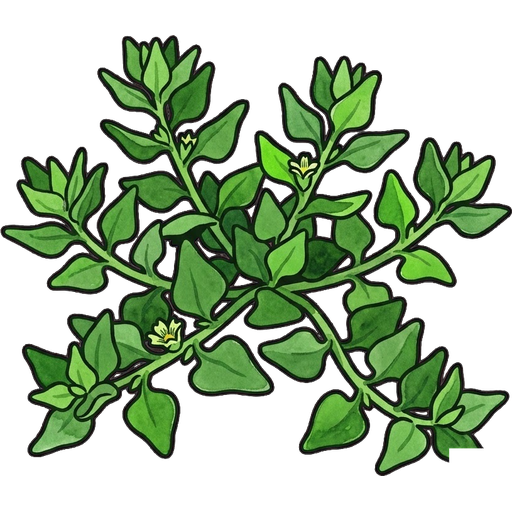
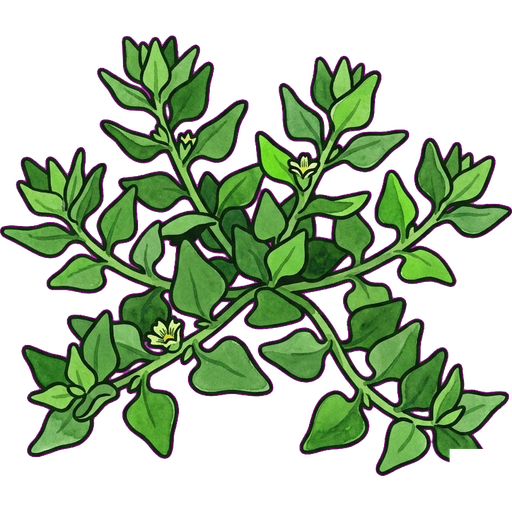
Sticker: Pack 2 Root Veg (9 stickers) + pipeline v10 fix + leafy veg reprocessed

diff --git a/app/src/data/packs/pack-vegetables-root.js b/app/src/data/packs/pack-vegetables-root.js
@@ -8,4 +8,86 @@ export const entries = [
 
   // 🥕 Root Vegetables ─────────────────────────────────────────────────────────
 
+  {
+    key: 'vegetable-root_celeriac',
+    label: 'Celeriac',
+    size: 'M',
+    latinName: 'Apium graveolens var. rapaceum',
+    searchTerms: ['celeriac', 'celery root', 'turnip-rooted celery'],
+    traits: ['biennial', 'root', 'celery-flavour'],
+    src: '/stickers/vegetable-root_celeriac_M_CA-US-FR-GB-AU.png',
+  },
+  {
+    key: 'vegetable-root_jerusalem-artichoke',
+    label: 'Jerusalem Artichoke',
+    size: 'XL',
+    latinName: 'Helianthus tuberosus',
+    searchTerms: ['jerusalem artichoke', 'sunchoke', 'topinambur'],
+    traits: ['perennial', 'root', 'edible-tuber', 'tall'],
+    src: '/stickers/vegetable-root_jerusalem-artichoke_XL_CA-US-FR-GB-AU.png',
+  },
+  {
+    key: 'vegetable-root_salsify',
+    label: 'Salsify',
+    size: 'M',
+    latinName: 'Tragopogon porrifolius',
+    searchTerms: ['salsify', 'oyster plant', 'vegetable oyster'],
+    traits: ['biennial', 'root', 'heritage', 'oyster-flavour'],
+    src: '/stickers/vegetable-root_salsify_M_CA-US-FR-GB-AU.png',
+  },
+  {
+    key: 'vegetable-root_scorzonera',
+    label: 'Scorzonera',
+    size: 'M',
+    latinName: 'Scorzonera hispanica',
+    searchTerms: ['scorzonera', 'black salsify'],
+    traits: ['perennial', 'root', 'heritage'],
+    src: '/stickers/vegetable-root_scorzonera_M_CA-US-FR-GB-AU.png',
+  },
+  {
+    key: 'vegetable-root_hamburg-parsley',
+    label: 'Hamburg Parsley',
+    size: 'M',
+    latinName: 'Petroselinum crispum var. tuberosum',
+    searchTerms: ['hamburg parsley', 'turnip-rooted parsley'],
+    traits: ['biennial', 'root', 'parsley'],
+    src: '/stickers/vegetable-root_hamburg-parsley_M_CA-US-FR-GB-AU.png',
+  },
+  {
+    key: 'vegetable-root_sweet-potato',
+    label: 'Sweet Potato',
+    size: 'M',
+    latinName: 'Ipomoea batatas',
+    searchTerms: ['sweet potato', 'ipomoea', 'kumara'],
+    traits: ['annual', 'root', 'tropical', 'spreading'],
+    src: '/stickers/vegetable-root_sweet-potato_M_CA-US-FR-GB-AU.png',
+  },
+  {
+    key: 'vegetable-root_oca',
+    label: 'Oca',
+    size: 'S',
+    latinName: 'Oxalis tuberosa',
+    searchTerms: ['oca', 'new zealand yam', 'oxalis tuberosa'],
+    traits: ['perennial', 'root', 'heritage', 'andean'],
+    src: '/stickers/vegetable-root_oca_S_CA-US-FR-GB-AU.png',
+  },
+  {
+    key: 'vegetable-root_skirret',
+    label: 'Skirret',
+    size: 'M',
+    latinName: 'Sium sisarum',
+    searchTerms: ['skirret', 'sium sisarum'],
+    traits: ['perennial', 'root', 'heritage'],
+    src: '/stickers/vegetable-root_skirret_M_CA-US-FR-GB-AU.png',
+  },
+  {
+    key: 'vegetable-root_yacon',
+    label: 'Yacon',
+    size: 'XL',
+    latinName: 'Smallanthus sonchifolius',
+    searchTerms: ['yacon', 'smallanthus', 'ground apple'],
+    traits: ['perennial', 'root', 'edible-tuber', 'andean'],
+    src: '/stickers/vegetable-root_yacon_XL_CA-US-FR-GB-AU.png',
+  },
+
 ];

diff --git a/tools/sticker-generate-one.py b/tools/sticker-generate-one.py
@@ -162,12 +162,12 @@ PLANT_LOOKUP = {
     "good king henry":       ("vegetable-leafy_good-king-henry",  "M",  256, "Leafy Vegetable",  "plant",   "mid green #4A8A3A, deep green #2A5A1A, pale mealy surface #C8D4B8, dark outline #0A1A0A", "Upright clump of large arrow-shaped leaves with mealy coating, upright flower spikes above."),
     "silverbeet":            ("vegetable-leafy_silverbeet",       "M",  256, "Leafy Vegetable",  "plant",   "deep green #1A6A3A, bright green #3AAA5A, pure white stems #F5F0E8, dark outline #0A1A0A", "Bold upright leaves with broad glossy green blade and thick white midrib and stems."),
     # Vegetables - Root
-    "celeriac":              ("vegetable-root_celeriac",          "M",  256, "Root Vegetable",   "rootveg", "pale cream-tan bulb #D4C890, mid green tops #4A8A3A, celery-green #6AAF5A, dark outline #0A1A0A", "Rough knobbly round bulb peeking from soil line with upright celery-like green stalks above."),
+    "celeriac":              ("vegetable-root_celeriac",          "M",  256, "Root Vegetable",   "rootveg", "pale cream-tan bulb #D4C890, mid green tops #4A8A3A, celery-green #6AAF5A, dark outline #0A1A0A", "Bulb peeking from soil line with upright celery-like green stalks above. Nothing showing beneath the soil line, focusing on what's not in the soil."),
     "jerusalem artichoke":   ("vegetable-root_jerusalem-artichoke", "XL", 512, "Root Vegetable", "rootveg", "bright yellow flowers #FFD700, deep green #2A5A1A, mid green #4A8A3A, pale tan tuber #D4B870, dark outline #0A1A0A", "Tall sunflower-like plant with golden-yellow blooms above and knobbly pale tubers peeking from soil line."),
-    "salsify":               ("vegetable-root_salsify",           "M",  256, "Root Vegetable",   "rootveg", "pale cream root #F0E8C8, mid green strap tops #4A8A3A, purple flower #7B35C8, dark outline #0A1A0A", "Long slender pale root peeking from soil line with upright grass-like strap leaves and purple flower."),
+    "salsify":               ("vegetable-root_salsify",           "M",  256, "Root Vegetable",   "rootveg", "pale cream-white root #F0E8C8, mid green strap tops #4A8A3A, purple flower #7B35C8, dark outline #0A1A0A", "Salsify root vegetable (NOT a dandelion). Long slender pale cream-white taproot peeking from soil line with upright narrow grass-like strap leaves above. No dandelion. No round seed puff. A single small purple composite flower on a separate stalk."),
     "scorzonera":            ("vegetable-root_scorzonera",        "M",  256, "Root Vegetable",   "rootveg", "deep black-brown root #2A1A0A, pale cream flesh hint #F0E8C8, mid green strap tops #4A8A3A, yellow flower #FFD700, dark outline #0A0A0A", "Long dark-skinned black root peeking from soil line with upright strap leaves and yellow dandelion-like flower."),
-    "hamburg parsley":       ("vegetable-root_hamburg-parsley",   "M",  256, "Root Vegetable",   "rootveg", "pale cream root #F0E8C0, mid green #4A8A3A, bright green parsley #5AB83A, dark outline #0A1A0A", "Thick white parsnip-like root peeking from soil with curly bright green parsley-like tops above."),
-    "sweet potato":          ("vegetable-root_sweet-potato",      "M",  256, "Root Vegetable",   "rootveg", "warm orange #E87820, deep orange #C45A10, bright green vines #5AB83A, heart-shaped leaves #4A8A3A, dark outline #0A1A0A", "Round orange sweet potato peeking from soil line with spreading heart-shaped vine leaves above."),
+    "hamburg parsley":       ("vegetable-root_hamburg-parsley",   "M",  256, "Root Vegetable",   "rootveg", "pale cream root #F0E8C0, bright green parsley #5AB83A, dark outline #0A1A0A", "Thick white parsnip-like root top peeking from soil line, ONLY the crown and shoulders visible above the soil, root body hiding below soil. Curly bright green parsley-like tops rising above. Hidden root."),
+    "sweet potato":          ("vegetable-root_sweet-potato",      "M",  256, "Root Vegetable",   "rootveg", "warm orange #E87820, deep orange #C45A10, bright green vines #5AB83A, leaves #4A8A3A, dark outline #0A1A0A", "The tops only of orange sweet potatoes peeking out from soil line with natural chaotic leafy bunch. No tubers visible below the soil."),
     "oca":                   ("vegetable-root_oca",               "S",  160, "Root Vegetable",   "rootveg", "vivid orange-yellow #E8A020, pale yellow #F5D070, bright green clover-like leaves #5AB83A, dark outline #0A1A0A", "Cluster of small bright orange-yellow tubers peeking from soil with small clover-like bright green leaves."),
     "skirret":               ("vegetable-root_skirret",           "M",  256, "Root Vegetable",   "rootveg", "pale cream roots #F0E8C8, mid green tops #4A8A3A, white flowers #F5F5E8, dark outline #0A1A0A", "Cluster of slender pale cream roots peeking from soil with upright ferny green tops and white flower clusters."),
     "yacon":                 ("vegetable-root_yacon",             "XL", 512, "Root Vegetable",   "rootveg", "warm tan tuber #C8A060, deep yellow-orange #D48830, bright green #5AB83A, broad leaves #3A8A3A, dark outline #0A1A0A", "Large daisy-like plant with big broad leaves above and large tan-golden tubers visible at soil line."),

diff --git a/tools/sticker-pipeline.py b/tools/sticker-pipeline.py
@@ -1,8 +1,8 @@
 """
-Chroma-key background remover v9
-- Removes #FF00FF magenta background
-- Full magenta spill suppression (semi-transparent AND opaque outline pixels)
-- Erases Gemini watermark in bottom-right corner
+Chroma-key background remover v10
+- Removes #FF00FF magenta background (same logic as v4 green, ported to magenta)
+- Edge-only spill suppression (semi-transparent border pixels only)
+- Erases Gemini watermark in bottom-right 20% corner
 - Crops to content bounding box
 - Resizes to 512x512
 - Outputs transparent PNG ready for Garden Mapper sticker folder
@@ -12,8 +12,8 @@ import numpy as np
 import os, sys
 
 CHROMA     = np.array([255, 0, 255], dtype=np.float32)  # Magenta
-TOLERANCE  = 40
-SOFT_RANGE = 20
+TOLERANCE  = 80
+SOFT_RANGE = 40
 OUT_SIZE   = 512
 
 def remove_chroma(input_path, output_path):
@@ -34,29 +34,23 @@ def remove_chroma(input_path, output_path):
     soft_alpha = ((dist - TOLERANCE) / SOFT_RANGE * 255).clip(0, 255)
     new_alpha = np.where(hard_transparent, 0,
                 np.where(soft_zone, soft_alpha, 255)).astype(np.uint8)
+
+    # ── Edge-only magenta spill suppression ────────────────────────────────────
+    # Only apply to semi-transparent edge pixels (same as v4 green approach).
+    # Magenta spill = R and B both elevated above G on edge pixels.
+    edge_mask = (new_alpha > 0) & (new_alpha < 255)
+    avg_g_of_rb = g  # G channel is the neutral reference for magenta
+    rb_excess_r = r - g  # how much R is above G
+    rb_excess_b = b - g  # how much B is above G
+    spill = edge_mask & (rb_excess_r > 15) & (rb_excess_b > 15)
+    # Reduce R and B toward G on spill pixels
+    data[:,:,0] = np.where(spill, g, r)
+    data[:,:,2] = np.where(spill, g, b)
+
     data[:,:,3] = new_alpha
 
-    # ── Magenta spill suppression — ALL pixels ──────────────────────────────────
-    # Suppresses both semi-transparent edge pixels AND fully-opaque outline pixels
-    # that are magenta-tinted (Gemini draws outlines with purple/magenta on magenta bg).
-    #
-    # Method: magenta_amount = min(R, B) - G  (amount of R+B above G = magenta contamination)
-    # Subtract that from R and B on any pixel that is not pure background.
-    r2, g2, b2 = data[:,:,0], data[:,:,1], data[:,:,2]
-    magenta_amount = np.maximum(np.minimum(r2, b2) - g2, 0)
-
-    # Apply to all non-background pixels (alpha > 0)
-    visible = new_alpha > 0
-    data[:,:,0] = np.where(visible, np.maximum(r2 - magenta_amount, 0), r2)
-    data[:,:,2] = np.where(visible, np.maximum(b2 - magenta_amount, 0), b2)
-
-    # ── Zero out near-transparent magenta fringe ────────────────────────────────
-    r3, g3, b3, a3 = data[:,:,0], data[:,:,1], data[:,:,2], data[:,:,3]
-    magenta_fringe = (r3 > 160) & (g3 < 80) & (b3 > 160) & (a3 < 40)
-    data[magenta_fringe, 3] = 0
-
-    # ── Erase Gemini watermark (bottom-right ~13% of image) ────────────────────
-    data[int(h * 0.80):, int(w * 0.80):, 3] = 0  # 20% corner covers full Gemini logo
+    # ── Erase Gemini watermark (bottom-right 20% of image) ─────────────────────
+    data[int(h * 0.80):, int(w * 0.80):, 3] = 0
 
     result = Image.fromarray(np.clip(data, 0, 255).astype(np.uint8), 'RGBA')
 

diff --git a/research/PLANT-DATABASE.md b/research/PLANT-DATABASE.md
@@ -49,6 +49,22 @@
 
 ---
 
+## 🥕 Vegetables — Root
+
+| Common Name | Latin Name | Family Group | Regions | Size | Pack | Sticker ID | Traits | Search Terms | Variants | Notes |
+|---|---|---|---|---|---|---|---|---|---|---|
+| Celeriac | Apium graveolens var. rapaceum | Apiaceae | CA US FR GB AU | M | pack-vegetables-root | vegetable-root_celeriac | biennial, root, celery-flavour | celeriac, celery root, turnip-rooted celery | none | |
+| Jerusalem Artichoke | Helianthus tuberosus | Asteraceae | CA US FR GB AU | XL | pack-vegetables-root | vegetable-root_jerusalem-artichoke | perennial, root, edible-tuber, tall | jerusalem artichoke, sunchoke, topinambur | none | |
+| Salsify | Tragopogon porrifolius | Asteraceae | CA US FR GB AU | M | pack-vegetables-root | vegetable-root_salsify | biennial, root, heritage, oyster-flavour | salsify, oyster plant, vegetable oyster | none | |
+| Scorzonera | Scorzonera hispanica | Asteraceae | CA US FR GB AU | M | pack-vegetables-root | vegetable-root_scorzonera | perennial, root, heritage | scorzonera, black salsify | none | FR classic |
+| Hamburg Parsley | Petroselinum crispum var. tuberosum | Apiaceae | CA US FR GB AU | M | pack-vegetables-root | vegetable-root_hamburg-parsley | biennial, root, parsley | hamburg parsley, turnip-rooted parsley | none | |
+| Sweet Potato | Ipomoea batatas | Convolvulaceae | CA US FR GB AU | M | pack-vegetables-root | vegetable-root_sweet-potato | annual, root, tropical, spreading | sweet potato, ipomoea, kumara | planned | orange/purple/white forms |
+| Oca | Oxalis tuberosa | Oxalidaceae | CA US FR GB AU | S | pack-vegetables-root | vegetable-root_oca | perennial, root, heritage, andean | oca, new zealand yam, oxalis tuberosa | planned | yellow/orange/red forms |
+| Skirret | Sium sisarum | Apiaceae | CA US FR GB AU | M | pack-vegetables-root | vegetable-root_skirret | perennial, root, heritage | skirret, sium sisarum | none | sweet heritage root veg |
+| Yacon | Smallanthus sonchifolius | Asteraceae | CA US FR GB AU | XL | pack-vegetables-root | vegetable-root_yacon | perennial, root, edible-tuber, andean | yacon, smallanthus, ground apple | none | |
+
+---
+
 ## 🥬 Vegetables — Leafy
 
 | Common Name | Latin Name | Family Group | Regions | Size | Pack | Sticker ID | Traits | Search Terms | Variants | Notes |

diff --git a/research/PLANT-STAGING.md b/research/PLANT-STAGING.md
@@ -819,22 +819,6 @@ _Then and only then does the row move to PLANT-DATABASE.md with the Sticker ID f
 
 ---
 
-## 🥕 Vegetables — Root
-
-| Common Name | Latin Name | Family Group | Regions | Size | Pack | Sticker ID | Traits | Search Terms | Variants | Notes |
-|---|---|---|---|---|---|---|---|---|---|---|
-| Celeriac | Apium graveolens var. rapaceum | Apiaceae | CA US FR GB AU | M | pack-vegetables-root | | biennial, root, celery-flavour | celeriac, celery root, turnip-rooted celery | none | |
-| Jerusalem Artichoke | Helianthus tuberosus | Asteraceae | CA US FR GB AU | XL | pack-vegetables-root | | perennial, root, edible-tuber, tall | jerusalem artichoke, sunchoke, topinambur | none | |
-| Salsify | Tragopogon porrifolius | Asteraceae | CA US FR GB AU | M | pack-vegetables-root | | biennial, root, heritage, oyster-flavour | salsify, oyster plant, vegetable oyster | none | |
-| Scorzonera | Scorzonera hispanica | Asteraceae | CA US FR GB AU | M | pack-vegetables-root | | perennial, root, heritage | scorzonera, black salsify | none | FR classic |
-| Hamburg Parsley | Petroselinum crispum var. tuberosum | Apiaceae | CA US FR GB AU | M | pack-vegetables-root | | biennial, root, parsley | hamburg parsley, turnip-rooted parsley | none | |
-| Sweet Potato | Ipomoea batatas | Convolvulaceae | CA US FR GB AU | M | pack-vegetables-root | | annual, root, tropical, spreading | sweet potato, ipomoea, kumara | planned | orange/purple/white forms |
-| Oca | Oxalis tuberosa | Oxalidaceae | CA US FR GB AU | S | pack-vegetables-root | | perennial, root, heritage, andean | oca, new zealand yam, oxalis tuberosa | planned | yellow/orange/red forms |
-| Skirret | Sium sisarum | Apiaceae | CA US FR GB AU | M | pack-vegetables-root | | perennial, root, heritage | skirret, sium sisarum | none | sweet heritage root veg |
-| Yacon | Smallanthus sonchifolius | Asteraceae | CA US FR GB AU | XL | pack-vegetables-root | | perennial, root, edible-tuber, andean | yacon, smallanthus, ground apple | none | |
-
----
-
 ## 🧅 Vegetables — Bulb
 
 | Common Name | Latin Name | Family Group | Regions | Size | Pack | Sticker ID | Traits | Search Terms | Variants | Notes |

diff --git a/research/STICKER-PROMPT-GUIDE.md b/research/STICKER-PROMPT-GUIDE.md
@@ -43,7 +43,7 @@ Side aerial view. Art style: watercolor painting — tasteful simplified represe
 Subject: [PLANT NAME], [TYPE OF PLANT].
 Canvas: [SIZE]px square.
 Colours: [4-5 colours or hex codes], flat solid magenta background (#FF00FF)
-Shape: [PLANT NAME] and tops peeking from a plant wide soil line. Only show the top of the root/plant above the minimal soil line. [Basic plant description] shoulders visible above the soil, root at bottom and leafy tops. Natural proportions.
+Shape: [PLANT NAME] and tops peeking from a plant wide soil line. Only show the top of the root/plant above the minimal soil line. [Basic plant description] shoulders visible above the soil, root at bottom and leafy tops. Natural proportions. Root crown only — do NOT show the full root extracted from soil or hanging in the air.
 ```
 
 ---
